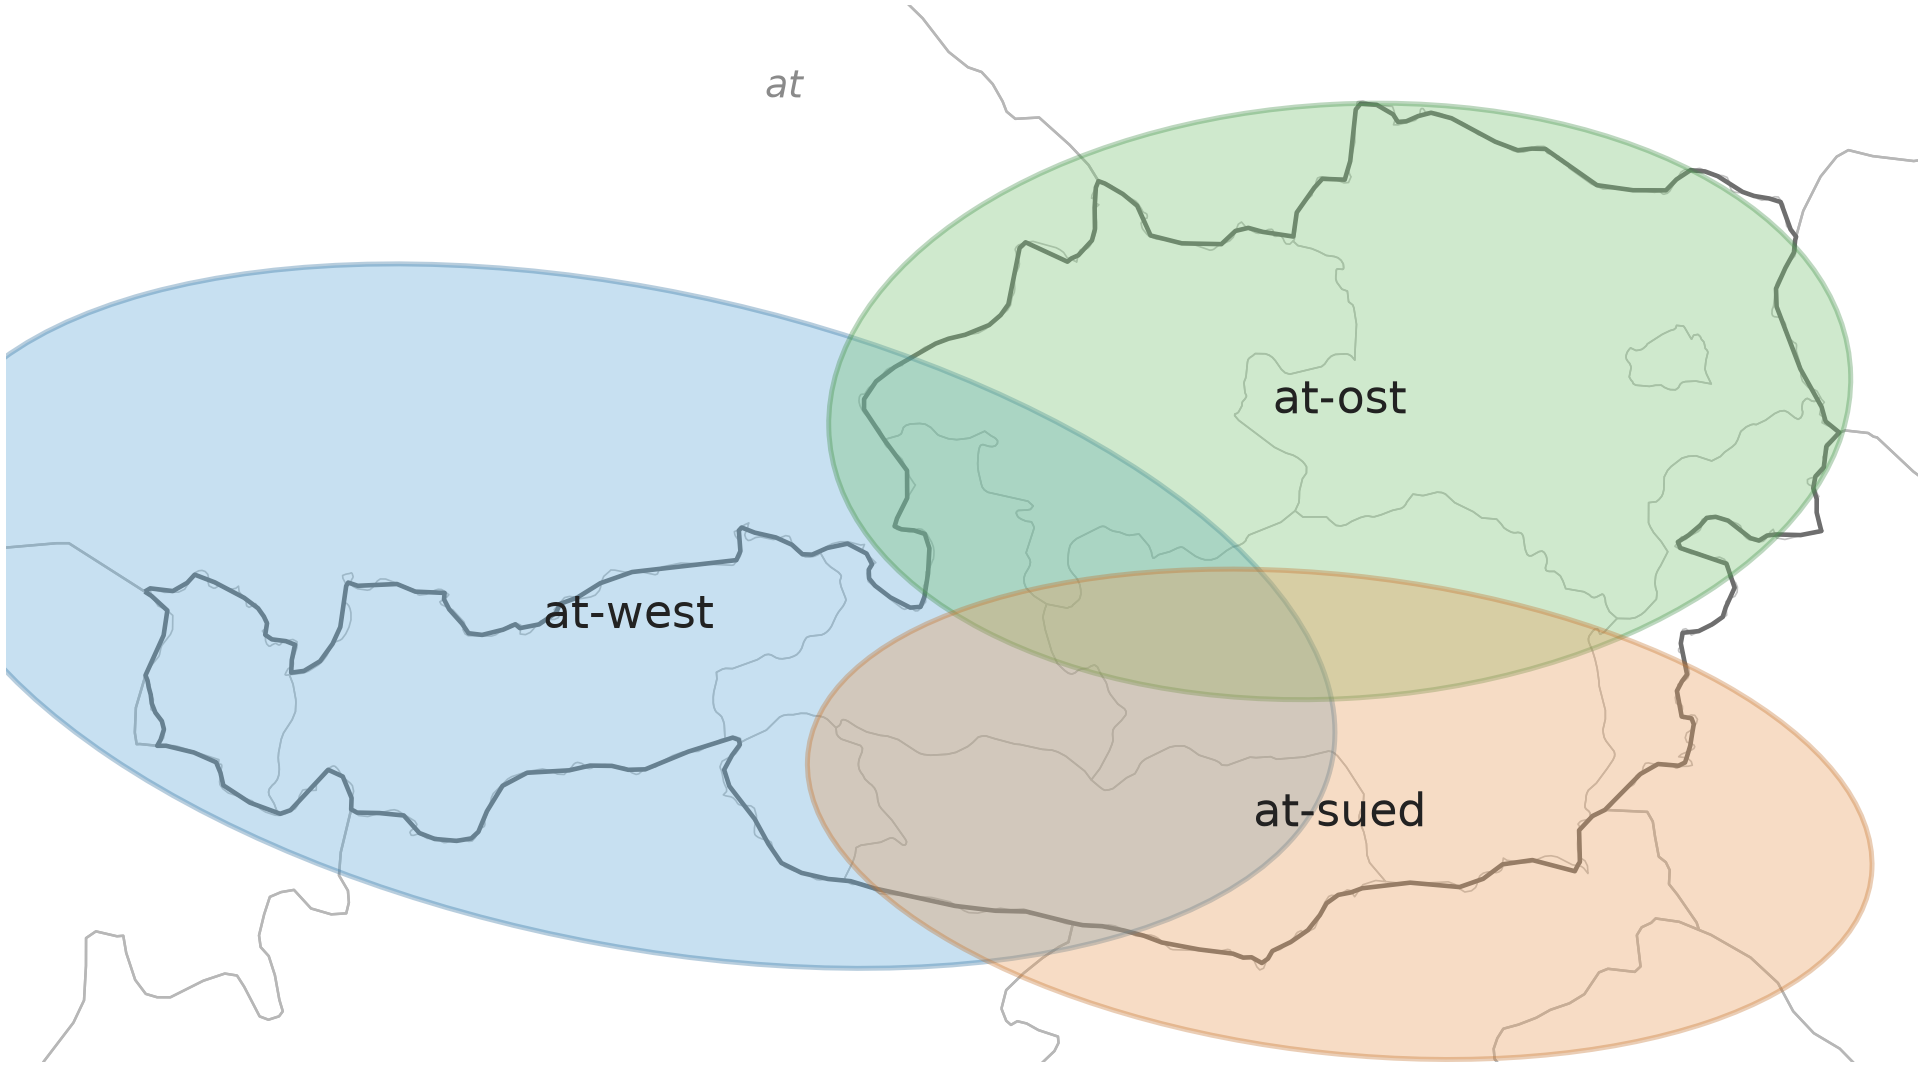
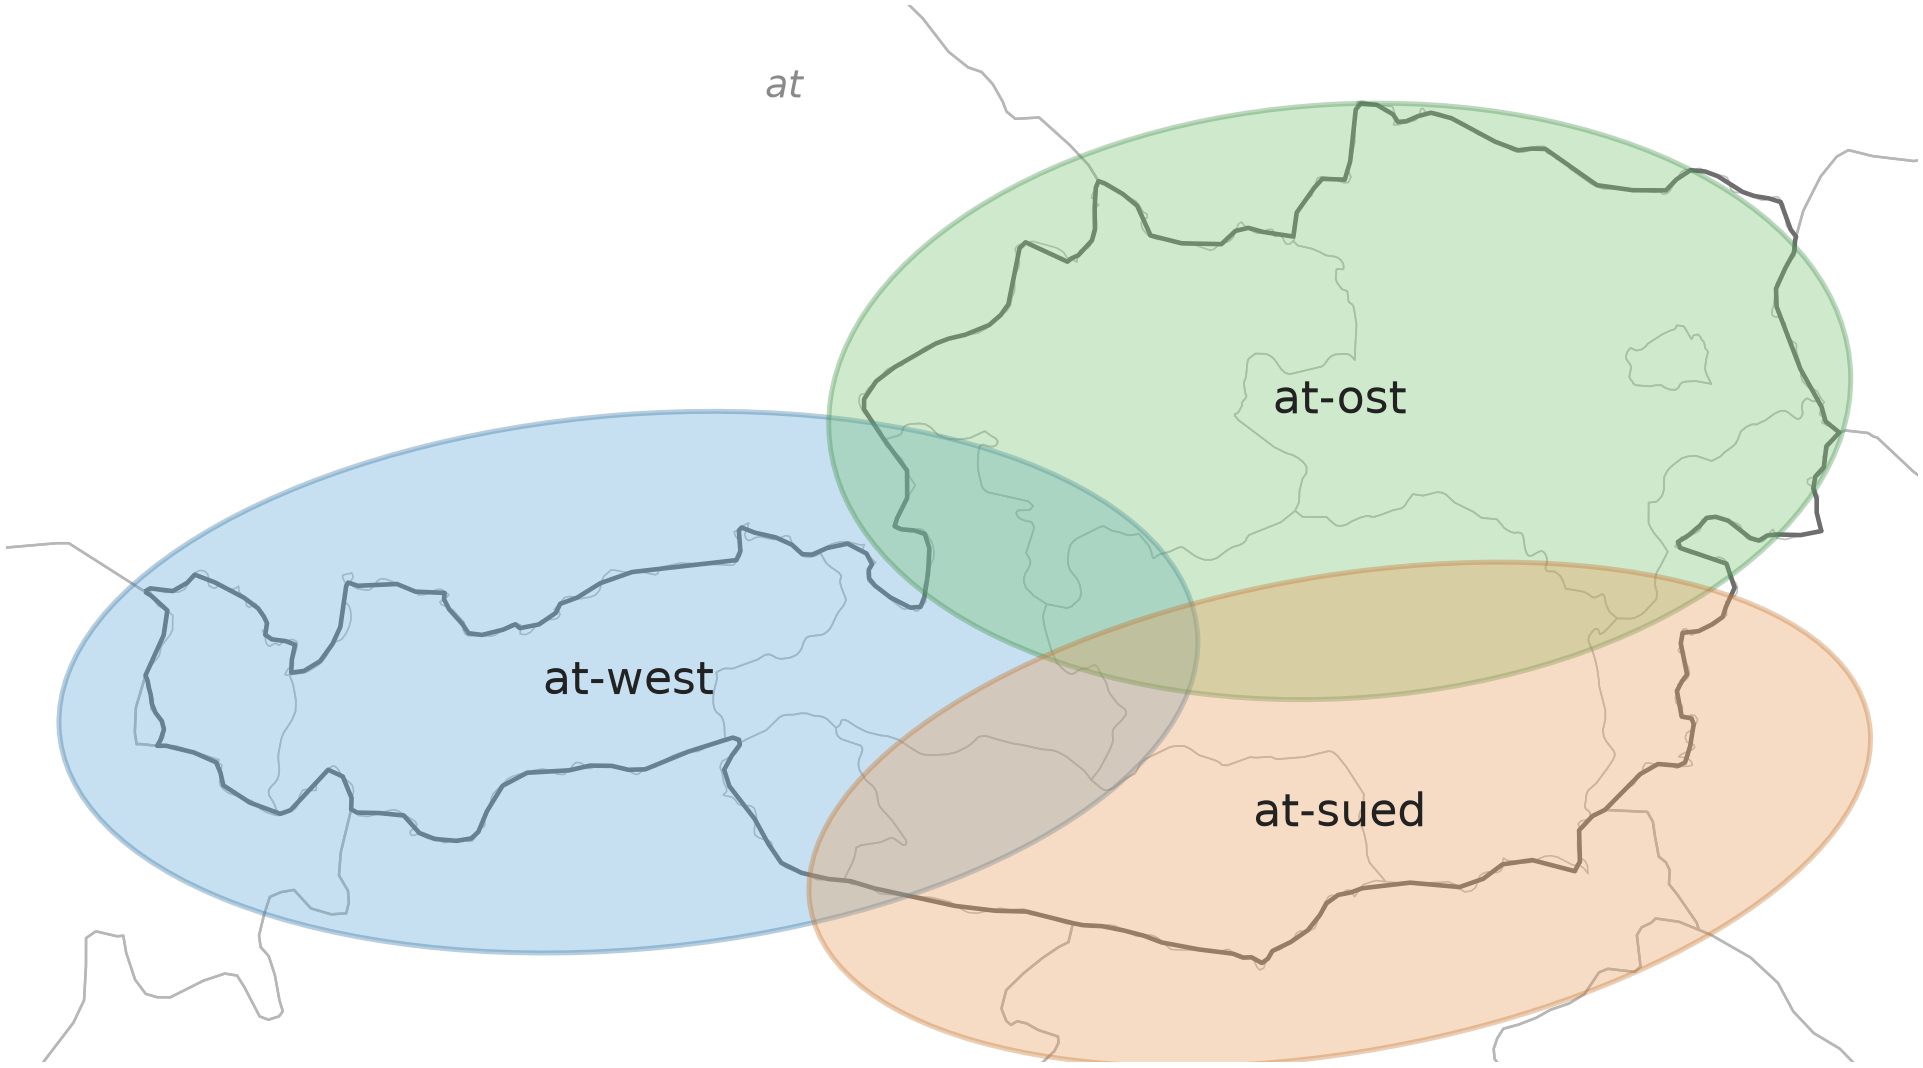
Opener hook unified, region-slide layout fix, region-map tuning
- "What is MeshCore?" divider + "The one-line version" lead with the thesis
  line "What Bitcoin did for money, MeshCore does for messaging" (bold on the
  payoff "a radio mesh you can join without asking"); bold the
  "censorship-resistant…" line
- Region-code slide: 66:32 columns so "The neat part" no longer crops
- regions-map: tune ellipses (Salzburg covered, at-west smaller/south, at-sued
  rotated, at-west 10% smaller)

Changed region(s): [[0.0, 0.2472, 0.9984, 1.0], [0.2808, 0.618, 0.3744, 0.6489], [0.2808, 0.5562, 0.3744, 0.5871]]

diff --git a/meshcore-for-bitcoiners.tex b/meshcore-for-bitcoiners.tex
@@ -45,14 +45,14 @@
 
 % ============================================================ what is MeshCore?
 % Bitcoiners don't know MeshCore — introduce it before drawing the parallels.
-\fillerslide[A radio mesh you can join without asking]{What is MeshCore?}
+\fillerslide[What Bitcoin did for money, MeshCore does for messaging!]{What is MeshCore?}
 
 % Hook slide: open with the one-line mental model + why a Bitcoiner should care,
 % BEFORE the mechanics. Audience are technical Bitcoiners new to MeshCore.
 \begin{frame}{The one-line version}
   \begin{itemize}
-    \item \textbf{It's Bitcoin's move, applied to talking:} a self-issued
-      identity instead of an account, peers relaying instead of infrastructure
+    \item What Bitcoin did for money, MeshCore does for messaging:
+      \textbf{a radio mesh you can join without asking}
     \item Generate a \textbf{keypair} and you're on --- no carrier, no number,
       no SIM, nobody to ask for permission
     \item Cheap radios relay each other in a \textbf{mesh}; coverage grows because
@@ -61,8 +61,9 @@
   \vfill
   \begin{alertblock}{Why a Bitcoiner should care}
     Spectrum is licensed, telcos are KYC gatekeepers, and the network itself is
-    the chokepoint. MeshCore routes around all three --- censorship-resistant,
-    self-sovereign comms that still work when the grid is down.
+    the chokepoint. MeshCore routes around all three ---
+    \textbf{censorship-resistant, self-sovereign comms that still work when the
+    grid is down}.
   \end{alertblock}
 \end{frame}
 
@@ -620,7 +621,7 @@
 % explain what a region code is and why it exists before drawing the SIGHASH bridge.
 \begin{frame}{What is a region code, and why?}
   \begin{columns}[T]
-    \begin{column}{0.58\textwidth}
+    \begin{column}{0.66\textwidth}
       \begin{itemize}
         \item MeshCore \textbf{floods} adverts and path discovery. Unchecked,
           traffic from far away wastes everyone's scarce airtime --- the same
@@ -636,7 +637,7 @@
           no coordinates, no permission: just a name the locals share
       \end{itemize}
     \end{column}
-    \begin{column}{0.40\textwidth}
+    \begin{column}{0.32\textwidth}
       \centering
       \includegraphics[width=\linewidth]{austria-regions}\\[0.3em]
       {\scriptsize Austria's three MeshCore macro-regions ---

diff --git a/regions-map/draw_regions.py b/regions-map/draw_regions.py
@@ -47,9 +47,9 @@ ASPECT = 1.0 / cos(radians((LAT0 + LAT1) / 2))  # de-squish lon at this latitude
 
 # --- the three community regions: (label, lon, lat, width°, height°, angle) --
 REGIONS = [
-    ("at-west", 11.7, 47.45, 6.4, 2.0, -7, "#5BA6D6", "#2E6E9E"),
+    ("at-west", 11.7, 47.25, 5.13, 1.62, 3, "#5BA6D6", "#2E6E9E"),
     ("at-ost",  14.9, 48.10, 4.6, 1.8, 2, "#73C16E", "#3E8C45"),
-    ("at-sued", 14.9, 46.85, 4.8, 1.45, -4, "#E89B57", "#C26F28"),
+    ("at-sued", 14.9, 46.85, 4.8, 1.45, 6, "#E89B57", "#C26F28"),
 ]
 
 def main():

diff --git a/CHANGELOG.md b/CHANGELOG.md
@@ -33,6 +33,8 @@ This format is loosely based on [Keep a Changelog](https://keepachangelog.com/).
   "2-byte" collided with the separate 2-byte region code.
 - **Backup-slide note** corrected from "1-byte path hashes" to "1–3 byte path
   hashes" (the obsolete pre-1.14 width).
+- **Region-code slide no longer overflows** — re-split the columns 66:32
+  (text:map) so the "The neat part" callout is on-screen again (was cropped).
 
 ### Added
 - **Floating SX1262 chip photo on the ASIC slide** — uses the theme's new
@@ -63,6 +65,12 @@ This format is loosely based on [Keep a Changelog](https://keepachangelog.com/).
   just join" thesis into a concrete action the room can take that night.
 
 ### Changed
+- **Opening hook unified.** The "What is MeshCore?" divider and "The one-line
+  version" both lead with *"What Bitcoin did for money, MeshCore does for
+  messaging"* (divider states it; the slide opens with it, then explains — bold
+  on the payoff *"a radio mesh you can join without asking"*). Also bolded the
+  "censorship-resistant, self-sovereign comms…" line. Tuned the region-map
+  ellipses (Salzburg covered; at-west smaller/south; at-sued rotated).
 - **Throughput slide now quantified.** "The throttle is imposed, not a failure"
   gives real ceilings: Bitcoin ≈ 200–400 tx/min (network-wide), MeshCore ≈ 4–25
   msgs/min *per node* under the 10% duty cycle (AT preset 869.618 MHz, SF 8,